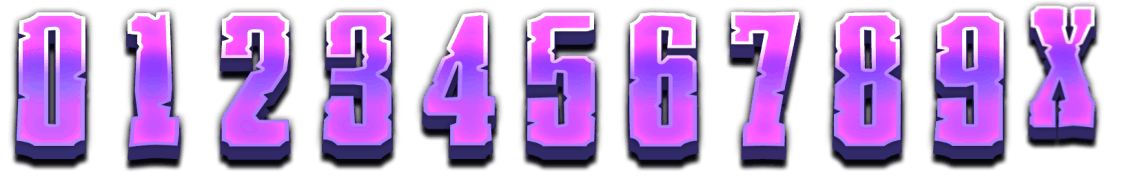
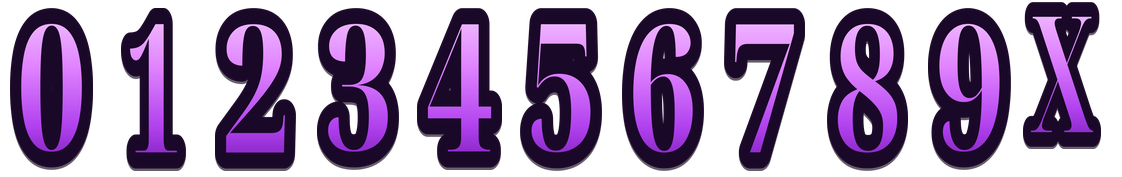
Replace borrowed text sheets, bitmap fonts and coin with original art
Drop-in replacements (atlas JSONs and font metrics unchanged):
- winSmall + freeSpins baked-text sheets re-set in gold/silver serif, all 16 languages word-for-word
- mm_gold, mm_silver, mm_purple, miningfont_gold_blur bitmap fonts re-rendered glyph-for-glyph
- SD2_Coin replaced with an original crescent/vault-wheel coin spin
See docs/ASSET-MANIFEST-2026-11-21-text-fonts-coin.md.

diff --git a/docs/ASSET-MANIFEST-2026-11-21-text-fonts-coin.md b/docs/ASSET-MANIFEST-2026-11-21-text-fonts-coin.md
@@ -1,0 +1,83 @@
+# Asset manifest — 2026-11-21 (text sheets, bitmap fonts, coin)
+
+Original Lunar Vault art replacing the remaining borrowed Mining Mayhem
+baked-text sheets, bitmap fonts, and the coin sprite. Follow-up to
+`docs/ASSET-MANIFEST-2026-11-21.md` (press-to-continue sheet), which
+listed these pieces as still-sample art.
+
+## Changed
+
+| Asset | File | Format | Bytes before → after |
+|---|---|---|---|
+| Win text sheet (16 languages) | `apps/lunar-vault/static/assets/sprites/winSmall/MM_Localisation_winsmall.png` | PNG 512×520 RGBA | 405,930 → 267,500 |
+| Same sheet, web build | `apps/lunar-vault/static/assets/sprites/winSmall/MM_Localisation_winsmall.webp` | WebP 512×520 RGBA | 118,312 → 118,750 |
+| Free-spins text sheet (16 languages) | `apps/lunar-vault/static/assets/sprites/freeSpins/freeSpins.png` | PNG 932×981 RGBA | 1,191,193 → 639,758 |
+| Same sheet, web build | `apps/lunar-vault/static/assets/sprites/freeSpins/freeSpins.webp` | WebP 932×981 RGBA | 323,194 → 267,048 |
+| Gold bitmap font | `apps/lunar-vault/static/assets/fonts/goldFont/mm_gold.png` | PNG 1482×214 RGBA | 324,997 → 277,794 |
+| Same font, web build | `apps/lunar-vault/static/assets/fonts/goldFont/mm_gold.webp` | WebP 1482×214 RGBA | 261,378 → 131,768 |
+| Silver bitmap font | `apps/lunar-vault/static/assets/fonts/silverFont/mm_silver.png` | PNG 2025×1864 RGBA | 809,227 → 764,542 |
+| Purple bitmap font | `apps/lunar-vault/static/assets/fonts/purpleFont/mm_purple.png` | PNG 1122×177 RGBA | 48,354 → 112,589 |
+| Gold-blur bitmap font | `apps/lunar-vault/static/assets/fonts/goldBlur/miningfont_gold_blur.png` | PNG 1265×378 RGBA | 384,721 → 171,166 |
+| Same font, web build | `apps/lunar-vault/static/assets/fonts/goldBlur/miningfont_gold_blur.webp` | WebP 1265×378 RGBA | 80,994 → 58,490 |
+| Coin spin sheet (12 frames) | `apps/lunar-vault/static/assets/sprites/coin/SD2_Coin.png` | PNG 1889×1152 RGBA | 2,495,661 → 1,373,202 |
+
+All replacements are drop-in: every atlas JSON, BMFont XML and JSON
+metrics file is unchanged — same sheet dimensions, same frame rects,
+same glyph rects, advances, line heights and per-language source
+sizes/offsets — so no code changes were needed.
+
+## Text sheets
+
+Every translation is kept word-for-word with the same line breaks
+(transcribed from the original tiles before replacement) and re-set
+programmatically in the same gold-gradient serif treatment as the
+press-to-continue sheet (Noto Serif Display Bold; Noto Naskh Arabic
+Bold for Arabic, RTL; Noto Serif Devanagari Bold for Hindi; Noto Serif
+CJK Bold for Japanese/Korean/Chinese), fitted into each frame's
+original ink box. The winSmall lines are set in gold. The freeSpins
+sheet keeps the original two-tone hierarchy: the congratulations line
+in gold, the "you won" line and the FREE SPINS / TOTAL WIN headers in
+silver serif. All 16 languages in both sheets were visually checked
+frame by frame against the originals.
+
+## Bitmap fonts
+
+Each glyph was re-rendered in the matching treatment (gold / silver /
+purple gradient serif with dark outline and drop shadow) and fitted to
+the original glyph's exact ink box inside its unchanged rect, so text
+layout is identical. Glyph sets are unchanged, including the silver
+font's currency and symbol extras (₩, ₱, ₽, €, ₹, ¥, ฿, Ŕ, Ķ, Ŗ, ‘, })
+and the gold font's ₺, ₫, ł and ×.
+
+One judgement call: the shipped `miningfont_gold_blur` sheet (both PNG
+and WebP) was a vertically smeared conversion artifact — the digits
+were stretched into illegible gold columns roughly 3.4× too tall. The
+replacement restores legible gold digits at the font family's
+proportions (ink height ≈ 1.94× the advance, as in `mm_gold`), centred
+in each rect's original ink footprint, with a soft gold halo for the
+"blur". Rects, advances and line height are unchanged.
+
+## Coin
+
+The original sheet was a pre-rendered 3D tumble of a Japanese-style
+coin (centre hole, cat face, flower back). The replacement is an
+original design drawn programmatically: a solid gold coin with a
+beaded rim, a crescent-moon-and-star face and a vault-wheel face,
+spun around the vertical axis. It is a clean in-place spin, not a
+tumble replica: each of the 12 frames keeps its atlas rect and takes
+the original frame's measured ink footprint (width, height and centre)
+inside the 684×684 source box, including the vertically squashed
+mid-spin poses and the edge-on bars. The centre hole is gone — it was
+part of the borrowed 5-yen design. Note the shipped atlas has four
+frame rects (4, 5, 10, 11) that run past the bottom edge of the
+1152 px sheet; the replacement keeps its content in the same visible
+footprint as the original.
+
+## Still sample art after this pass
+
+The Spine animations — symbol win states (`spines/symbols*`, including
+the shared explosion), `bigwin`, `fsIntro`, `anticipation`,
+`clusterWin`, `tumbleWin`, `globalMultiplier`, `reelhouse`,
+`transition` — and the audio sound sprite. Those remain borrowed
+Mining Mayhem assets, unchanged by this pass. Everything else on the
+2026-11-16 still-sample list has now been replaced with original art.
